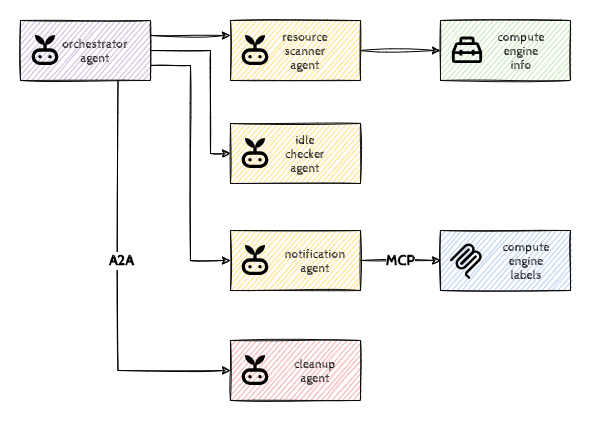
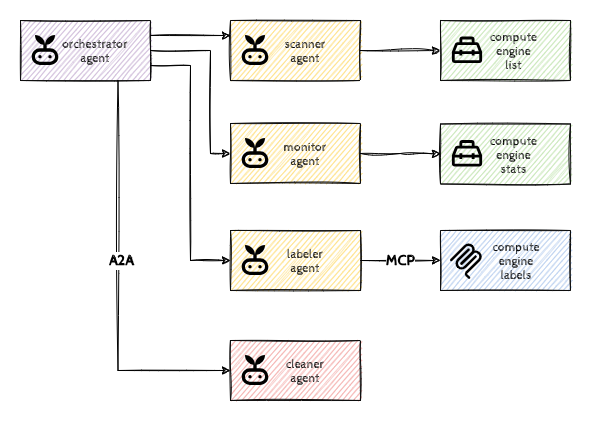
improving naming of agents and instructions...

diff --git a/hacks/adk-intro/README.md b/hacks/adk-intro/README.md
@@ -152,17 +152,17 @@ In this challenge we'll introduce the concept of *sub-agents* and *workflow agen
 
 ### Description
 
-Create two new agents, an `idle_checker_agent` which, should filter the list of resources found by the `resource_scanner_agent`, and stores that into the session store as `idle_resources` (using the same schema as `resources` in the previous challenge). This agent should return back only the instances that are idle, or have a label with the key 'janitor-scheduled'.
+Create two new agents, an `resource_monitor_agent` which, should filter the list of resources found by the `resource_scanner_agent`, and stores that into the session store as `idle_resources`. This agent should return back only the instances that are idle.
 
-Then create a new sequential agent `orchestrator_agent` that calls the `resource_scanner_agent` and the `idle_checker_agent` in sequence. Once you have created the new agents, update the `root_agent` to be the `orchestrator_agent`.
+Then create a new sequential agent `orchestrator_agent` that calls the `resource_scanner_agent` and the `resource_monitor_agent` in sequence. Once you have created the new agents, update the `root_agent` to be the `orchestrator_agent`.
 
 > [!NOTE]  
-> This is a very basic scenario where we're looking up average CPU utilization and letting the Agent to decide what's idle. The power of the LLM based agents is however that they can also detect more advanced patterns (which is beyond the scope of this challenge)
+> This is a very basic scenario where we're looking up basic stats and letting the Agent to decide what's idle. The power of the LLM based agents is however that they can also detect more advanced patterns (which is beyond the scope of this challenge)
 
 ### Success Criteria
 
-- The Agent runs both `resource_scanner_agent` and `idle_checker_agent` in sequence and updates the session store.
-- The session state contains `gce-stg-lnx-nginx-001` and `gce-sbx-lnx-blob-001` (and their details) for `idle_resources` when prompted to list the resources.
+- The Agent runs both `resource_scanner_agent` and `resource_monitor_agent` in sequence and updates the session store.
+- The session state contains `gce-dev-lnx-tomcat-001`,  `gce-dev-lnx-tomcat-002` and `gce-sbx-lnx-blob-001` (and their details) for `idle_resources` when prompted to find the idle resources.
 - The changes have been pushed to the remote Git repository.
 
 ### Learning Resources
@@ -185,13 +185,17 @@ In this challenge we'll make sure that idle resources are tagged so that we can 
 
 ### Description
 
-We have already provided an `mcp-server` on Cloud Run. It provides a single tool that's basically responsible for updating the labels on the idle resources.
+We have already provided an `mcp-server` on Cloud Run. It provides a number of tools that are basically responsible for updating the labels on resources.
 
-Create a new agent `notification_agent`, configure it to use the tool from that server. Then add the `notification_agent` to the `orchestrator_agent` sequence.
+Create a new agent `resource_labeler_agent`, configure it to use the toolset from that server. Instruct the agent to add the `janitor-scheduled` label with the value set to 7 days in the future to the idle instances. Make sure that the agent does not add the label if the instance already has a `janitor-scheduled` label.
+
+Then add the `resource_labeler_agent` to the `orchestrator_agent` sequence.
 
 ### Success Criteria
 
-- The Agent runs `resource_scanner_agent`, `idle_checker_agent` and `notification_agent` in sequence and updates the labels on the virtual machines that are idle.
+- The Agent runs `resource_scanner_agent`, `resource_monitor_agent` and `resource_labeler_agent` in sequence.
+- The instances `gce-dev-lnx-tomcat-001`,  `gce-dev-lnx-tomcat-002` have the label `janitor-scheduled` with the value set to 7 days in the future.
+- The instance `gce-sbx-lnx-blob-001` is not updated and keeps `janitor-scheduled` label set to yesterday.
 - The changes have been pushed to the remote Git repository.
 
 ### Learning Resources
@@ -202,6 +206,7 @@ Create a new agent `notification_agent`, configure it to use the tool from that 
 
 - You can use a [proxy](https://cloud.google.com/sdk/gcloud/reference/run/services/proxy) to simplify the authentication for the Cloud Run service.
 - You can verify the list by navigating to the *VM Instances* page in the Google Cloud Console or by using the `gcloud compute instances describe` command in Cloud Shell.
+- LLMs have no understanding of the current date and can struggle with date arithmetic, you might want to use additional tools.
 
 ## Challenge 6: A2A: Remote Agent Power
 
@@ -213,15 +218,16 @@ In the previous challenge we've learned that we can use tools developed by other
 
 We have already provided an `a2a-server` on Cloud Run. It has a single agent deployed that's responsible for stopping the idle resources that have been marked with the `janitor-scheduled` label.
 
-Create a new agent `cleanup_agent` that uses A2A protocol to connect to the remote `a2a-server` and add it to the `orchestrator_agent` sequence as the last one.
+Create a new agent `resource_cleaner_agent` that uses A2A protocol to connect to the remote `a2a-server` and add it to the `orchestrator_agent` sequence as the last one.
 
 ### Success Criteria
 
-- The Agent runs all the agents in sequence and stops all the idle resources that have been marked with the `janitor-scheduled` label, leaving only the following running:
+- The Agent runs all the agents in sequence and stops all the idle resources that have been marked with the `janitor-scheduled` label where the date is in the past, leaving only the following running:
 
   ```text
   - gce-dev-lnx-tomcat-001
   - gce-dev-lnx-tomcat-002
+  - gce-prd-lnx-env-setup
   ```
 
 - The changes have been pushed to the remote Git repository.

diff --git a/hacks/adk-intro/solutions.md b/hacks/adk-intro/solutions.md
@@ -82,7 +82,7 @@ resource_scanner_agent = Agent(
     model=settings.GEMINI_MODEL,
     instruction="""
     You are a Cloud Resource Scanner. 
-    Your job is to return *all* virtual machines.
+    Return *all* resources.
     """
 )
 
@@ -107,9 +107,9 @@ resource_scanner_agent = Agent(
     model=settings.GEMINI_MODEL,
     instruction="""
     You are a Cloud Resource Scanner. 
-    Your job is to return *all* virtual machines.
+    Return *all* resources.
     """,
-    tools=[tools.get_compute_engine_vm_info]
+    tools=[tools.get_compute_instances_list]
 )
 ```
 
@@ -131,9 +131,9 @@ resource_scanner_agent = Agent(
     model=settings.GEMINI_MODEL,
     instruction="""
     You are a Cloud Resource Scanner. 
-    Your job is to return *all* virtual machines.
+    Return *all* resources.
     """,
-    tools=[tools.get_compute_engine_vm_info],
+    tools=[tools.get_compute_instances_list],
     output_key="resources",
     output_schema=schemas.VMInstanceList
 )
@@ -153,24 +153,28 @@ Again the new driver should follow the same steps for the first challenge to clo
 from google.adk.agents import SequentialAgent
 
 # keep resource_scanner_agent as is
-idle_checker_agent = Agent(
-    name="idle_checker_agent",
+resource_monitor_agent = Agent(
+    name="resource_monitor_agent",
     model=settings.GEMINI_MODEL,
     instruction="""
-    Filter the {resources} and return back only the instances that are idle, 
-    or have a label with the key 'janitor-scheduled'.
+    You are a Cloud Resource Monitor.
+    Filter the {resources} and return back only the instances that are idle.
     """,
+    tools=[tools.get_compute_instance_stats],
     output_key="idle_resources",
-    output_schema=schemas.VMInstanceList
+    output_schema=schemas.VMStatsList,
 )
 
 orchestrator_agent = SequentialAgent(
     name="orchestrator_agent",
-    sub_agents=[resource_scanner_agent, idle_checker_agent]
+    sub_agents=[resource_scanner_agent, resource_monitor_agent]
 )
 
 root_agent = orchestrator_agent
 ```
+
+> [!NOTE]  
+> Sometimes after running both agents, the `resources` state variable seems to be empty, but as long as `idle_resources` provides the correct set of instances, it should be fine.
 
 Make sure that the changes are pushed to the repository so the next driver can pick up the changes.
 
@@ -201,23 +205,23 @@ mcp_tool_set = MCPToolset(
     )
 )
 
-notification_agent = Agent(
-    name="notification_agent",
+resource_labeler_agent = Agent(
+    name="resource_labeler_agent",
     model=settings.GEMINI_MODEL,
     instruction="""
-    You are responsible for notifying the user about the idle resources. 
-    We're going to do that by adding the 'janitor-scheduled' label to the idle resources 
-    that don't have that label yet.
+    You are a Cloud Resource Labeler.
+    Add the 'janitor-scheduled' label with the value set to 7 days in the future to the idle instances.
+    Do not add the label if the instance already has a 'janitor-scheduled' label.
     """,
-    tools=[mcp_tool_set]
+    tools=[mcp_tool_set, tools.get_current_date, tools.add_days_to_date]
 )
 
 orchestrator_agent = SequentialAgent(
     name="orchestrator_agent",
     sub_agents=[
         resource_scanner_agent,
-        idle_checker_agent,
-        notification_agent
+        resource_monitor_agent,
+        resource_labeler_agent
     ]
 )
 ```
@@ -277,22 +281,21 @@ from google.adk.agents.remote_a2a_agent import AGENT_CARD_WELL_KNOWN_PATH
 from google.adk.agents.remote_a2a_agent import RemoteA2aAgent
 
 # keep other agents
-
-cleanup_agent = RemoteA2aAgent(
-    name="cleanup_agent",
-    description="Agent that handles stopping idle resources",
+resource_cleaner_agent = RemoteA2aAgent(
+    name="resource_cleaner_agent",
+    description="This agent stops idle instances that have been scheduled for cleanup",
     agent_card=(
-        f"http://localhost:8080/a2a/cleanup_agent{AGENT_CARD_WELL_KNOWN_PATH}"
+        f"http://localhost:8080/a2a/resource_cleaner_agent{AGENT_CARD_WELL_KNOWN_PATH}"
     )
 )
 
 orchestrator_agent = SequentialAgent(
     name="orchestrator_agent",
     sub_agents=[
-        resource_scanner_agent, 
-        idle_checker_agent, 
-        notification_agent, 
-        cleanup_agent
+        resource_scanner_agent,
+        resource_monitor_agent,
+        resource_labeler_agent,
+        resource_cleaner_agent
     ]
 )
 ```
@@ -308,11 +311,11 @@ httpx_client = httpx.AsyncClient(headers={
         "Authorization": f"Bearer {tools.get_bearer_token(A2A_SERVER_CLOUD_RUN_URL)}"
     })
 
-cleanup_agent = RemoteA2aAgent(
-    name="cleanup_agent",
-    description="Agent that handles stopping idle resources",
+resource_cleaner_agent = RemoteA2aAgent(
+    name="resource_cleaner_agent",
+    description="This agent stops idle instances that have been scheduled for cleanup",
     agent_card=(
-        f"{A2A_SERVER_CLOUD_RUN_URL}/a2a/cleanup_agent{AGENT_CARD_WELL_KNOWN_PATH}"
+        f"http://localhost:8080/a2a/resource_cleaner_agent{AGENT_CARD_WELL_KNOWN_PATH}"
     ),
     httpx_client=httpx_client
 )
